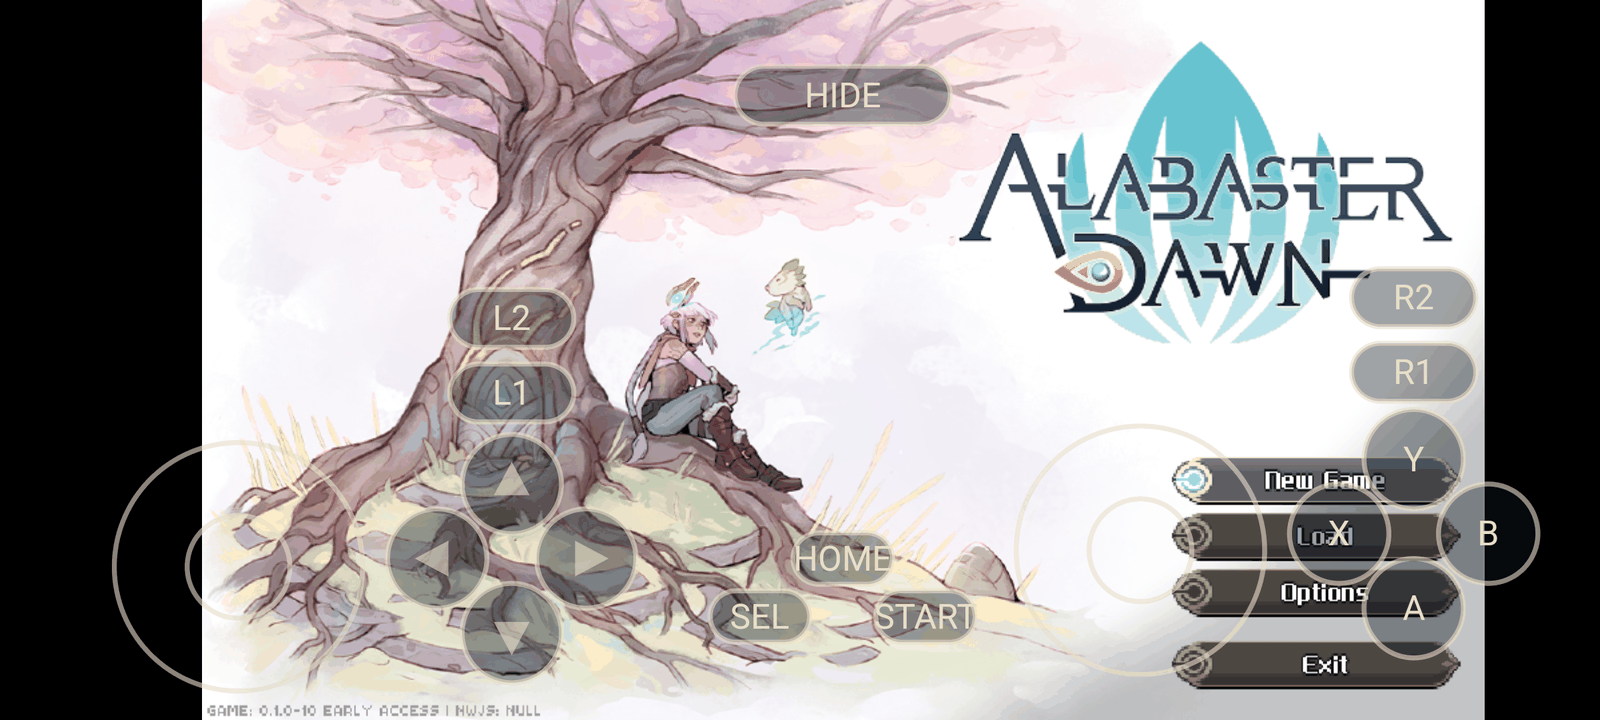
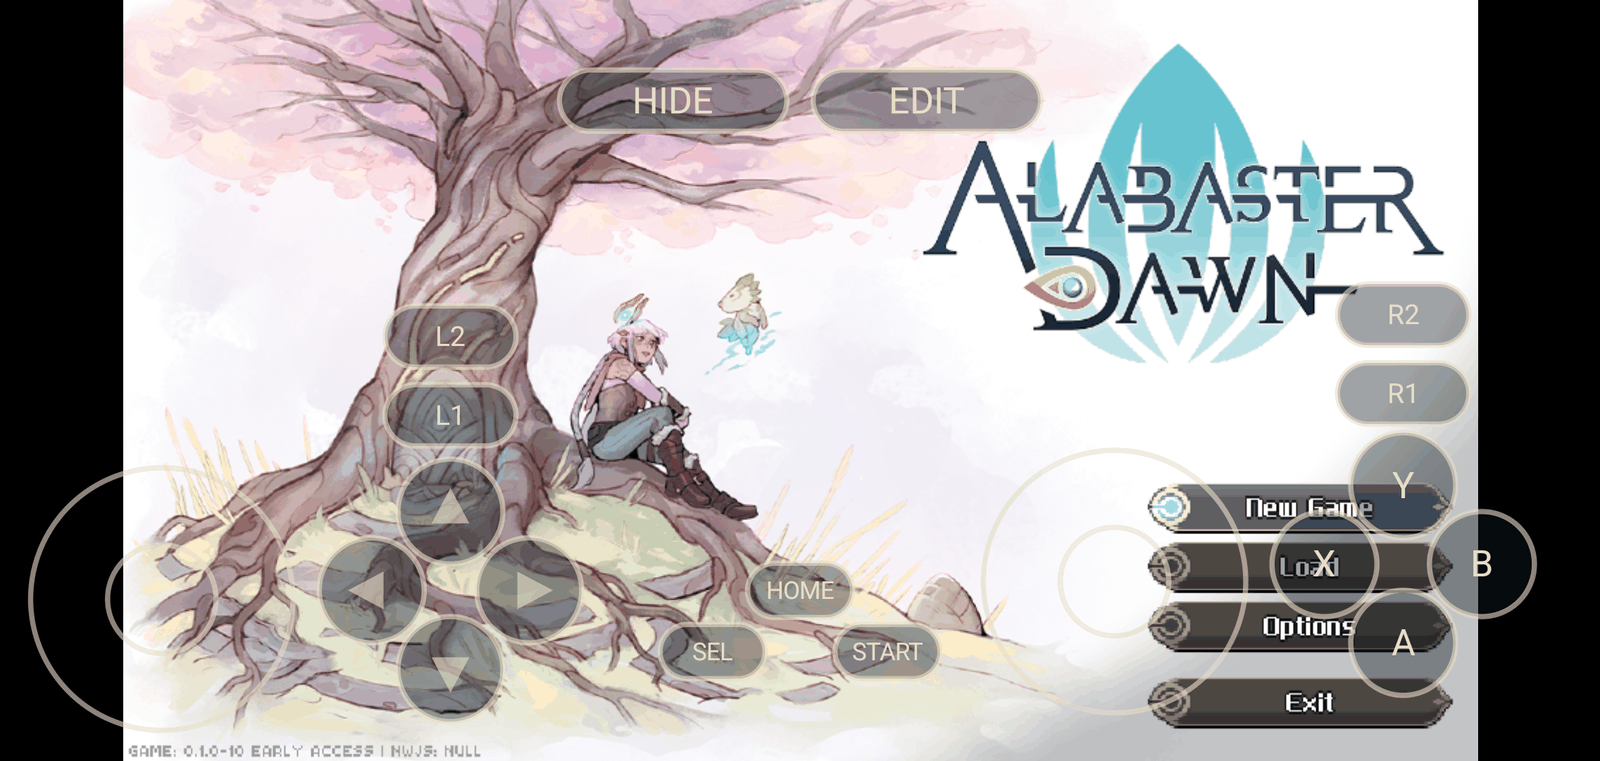
Refresh the pad screenshot and add one of the layout editor
docs/on-screen-pad.png still showed the pre-editor top row (a single HIDE
pill), which contradicted the README and the 0.2 notes. Retaken on the
Android 14 emulator at the same window size as before, and added
docs/pad-editor.png showing a selected control, its corner handle and the
editor's pill row and size hint.

diff --git a/README.md b/README.md
@@ -12,9 +12,9 @@ Two independent pieces of work for [Alabaster Dawn](https://store.steampowered.c
 
 Plus the research notes (`FINDINGS.md`) and the test harness (`tools/`, `logs/`) that produced them.
 
-| Setup screen | Running under the port | On-screen pad |
-|---|---|---|
-| ![Game files and saves pickers](docs/setup.png) | ![Title screen](docs/title-screen.png) | ![On-screen pad over the title screen](docs/on-screen-pad.png) |
+| Setup screen | Running under the port | On-screen pad | Pad layout editor |
+|---|---|---|---|
+| ![Game files and saves pickers](docs/setup.png) | ![Title screen](docs/title-screen.png) | ![On-screen pad over the title screen](docs/on-screen-pad.png) | ![Moving and resizing a pad control](docs/pad-editor.png) |
 
 *Screenshots contain Alabaster Dawn artwork and text, © Radical Fish Games, shown for documentation.*
 

diff --git a/FINDINGS.md b/FINDINGS.md
@@ -25,6 +25,7 @@ android/  app/                 the native Android port (§9): Kotlin, WebView + 
 docs/     setup.png            screenshots for README.md (Alabaster Dawn art (c) Radical Fish Games)
           title-screen.png
           on-screen-pad.png
+          pad-editor.png
           release-notes-0.1.md  the 0.1 release notes (no on-screen pad yet; see ON_SCREEN_GAMEPAD_PLAN.md)
           release-notes-0.2.md  the 0.2 release notes (on-screen pad + layout editor)
 fix/    gamepad-fix.js         controller fix for the desktop build (drop-in, tested)
